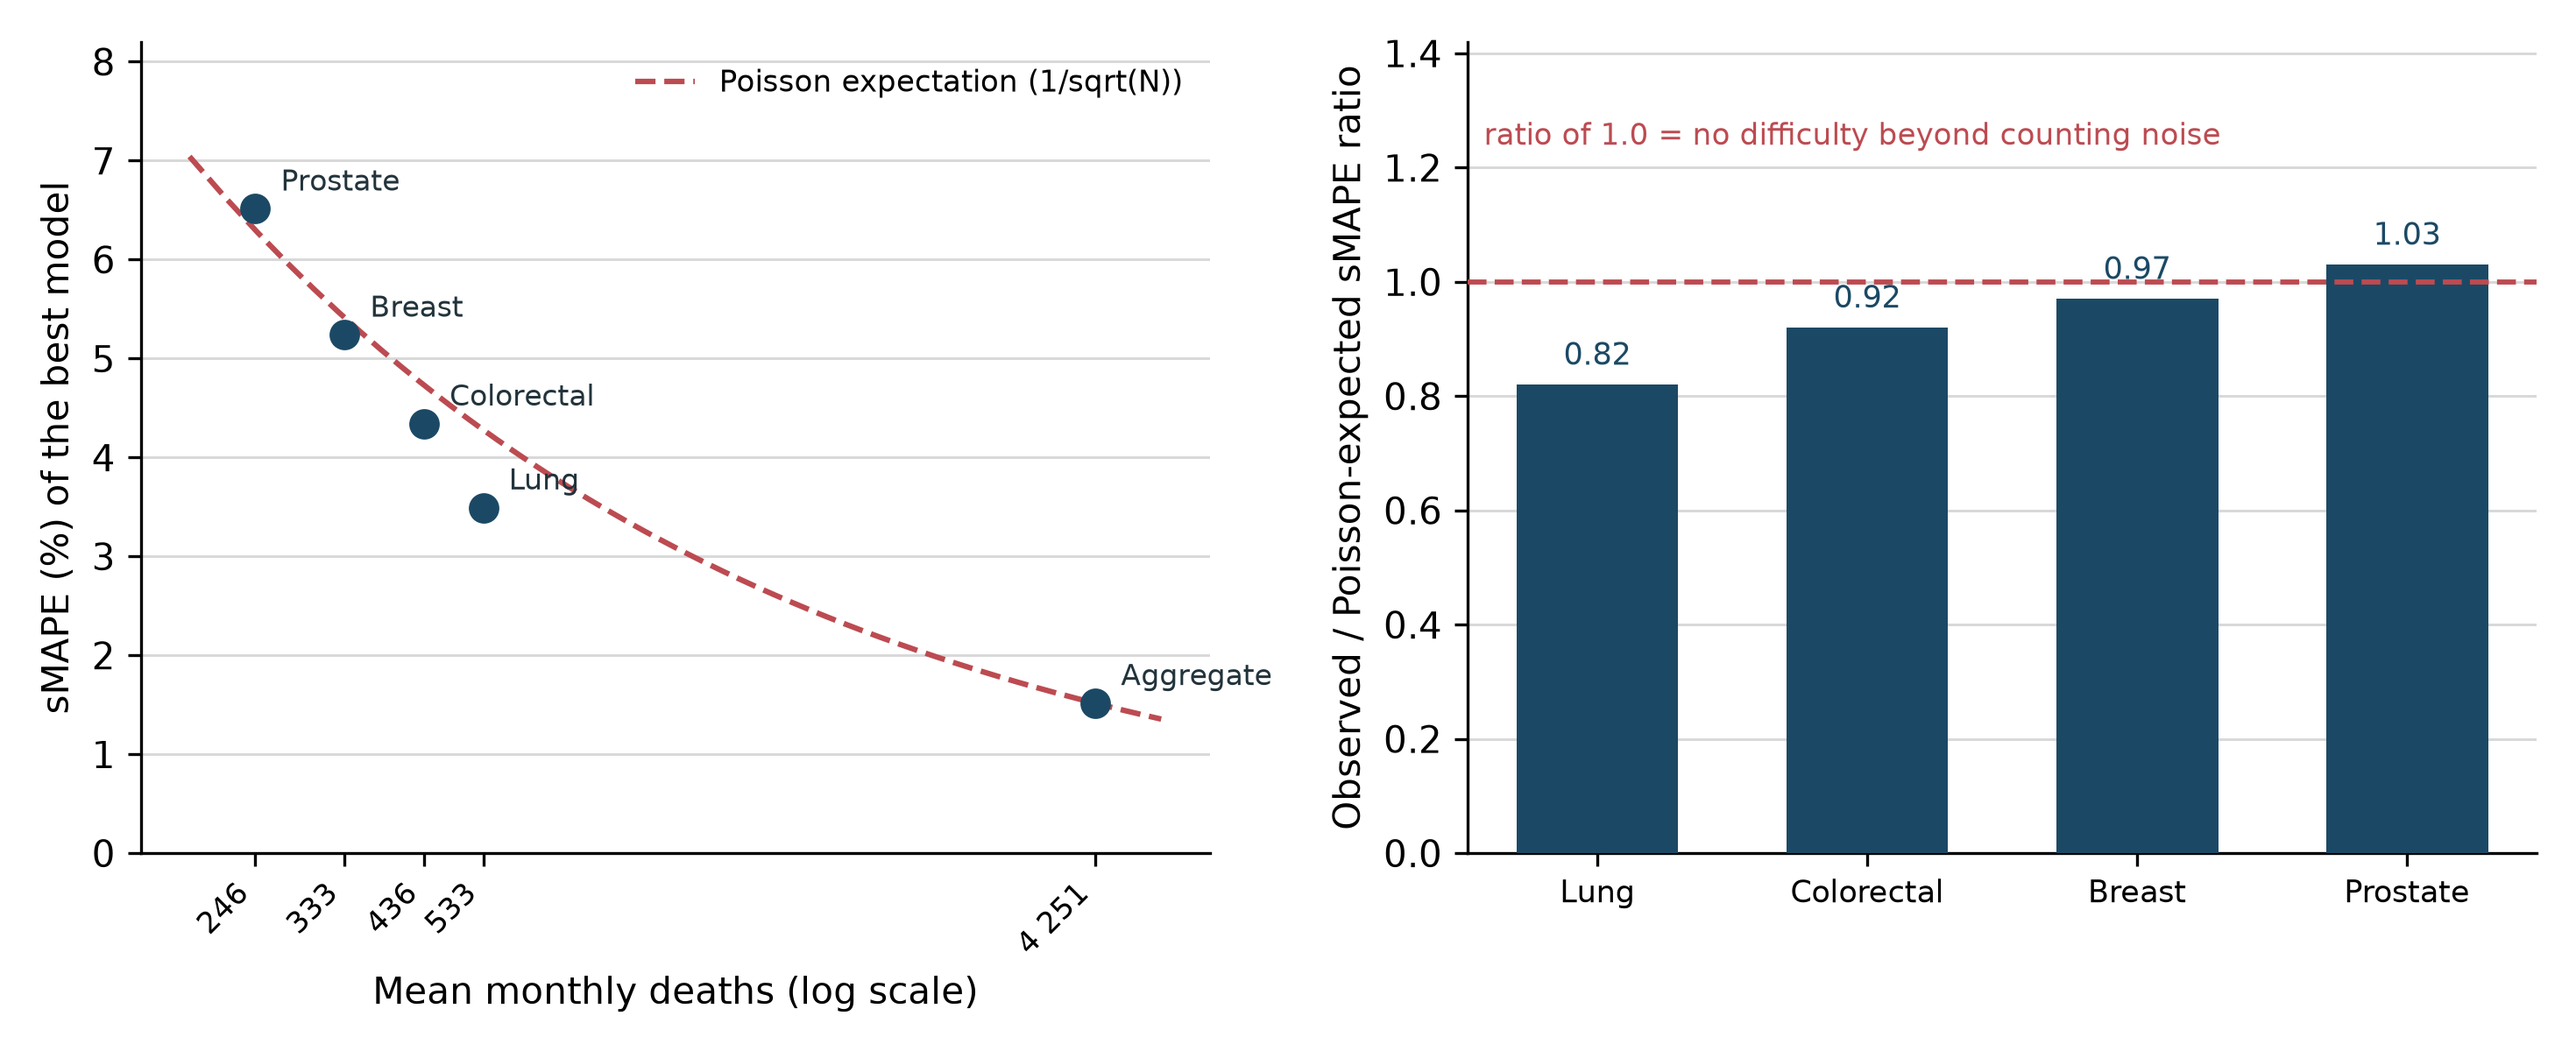
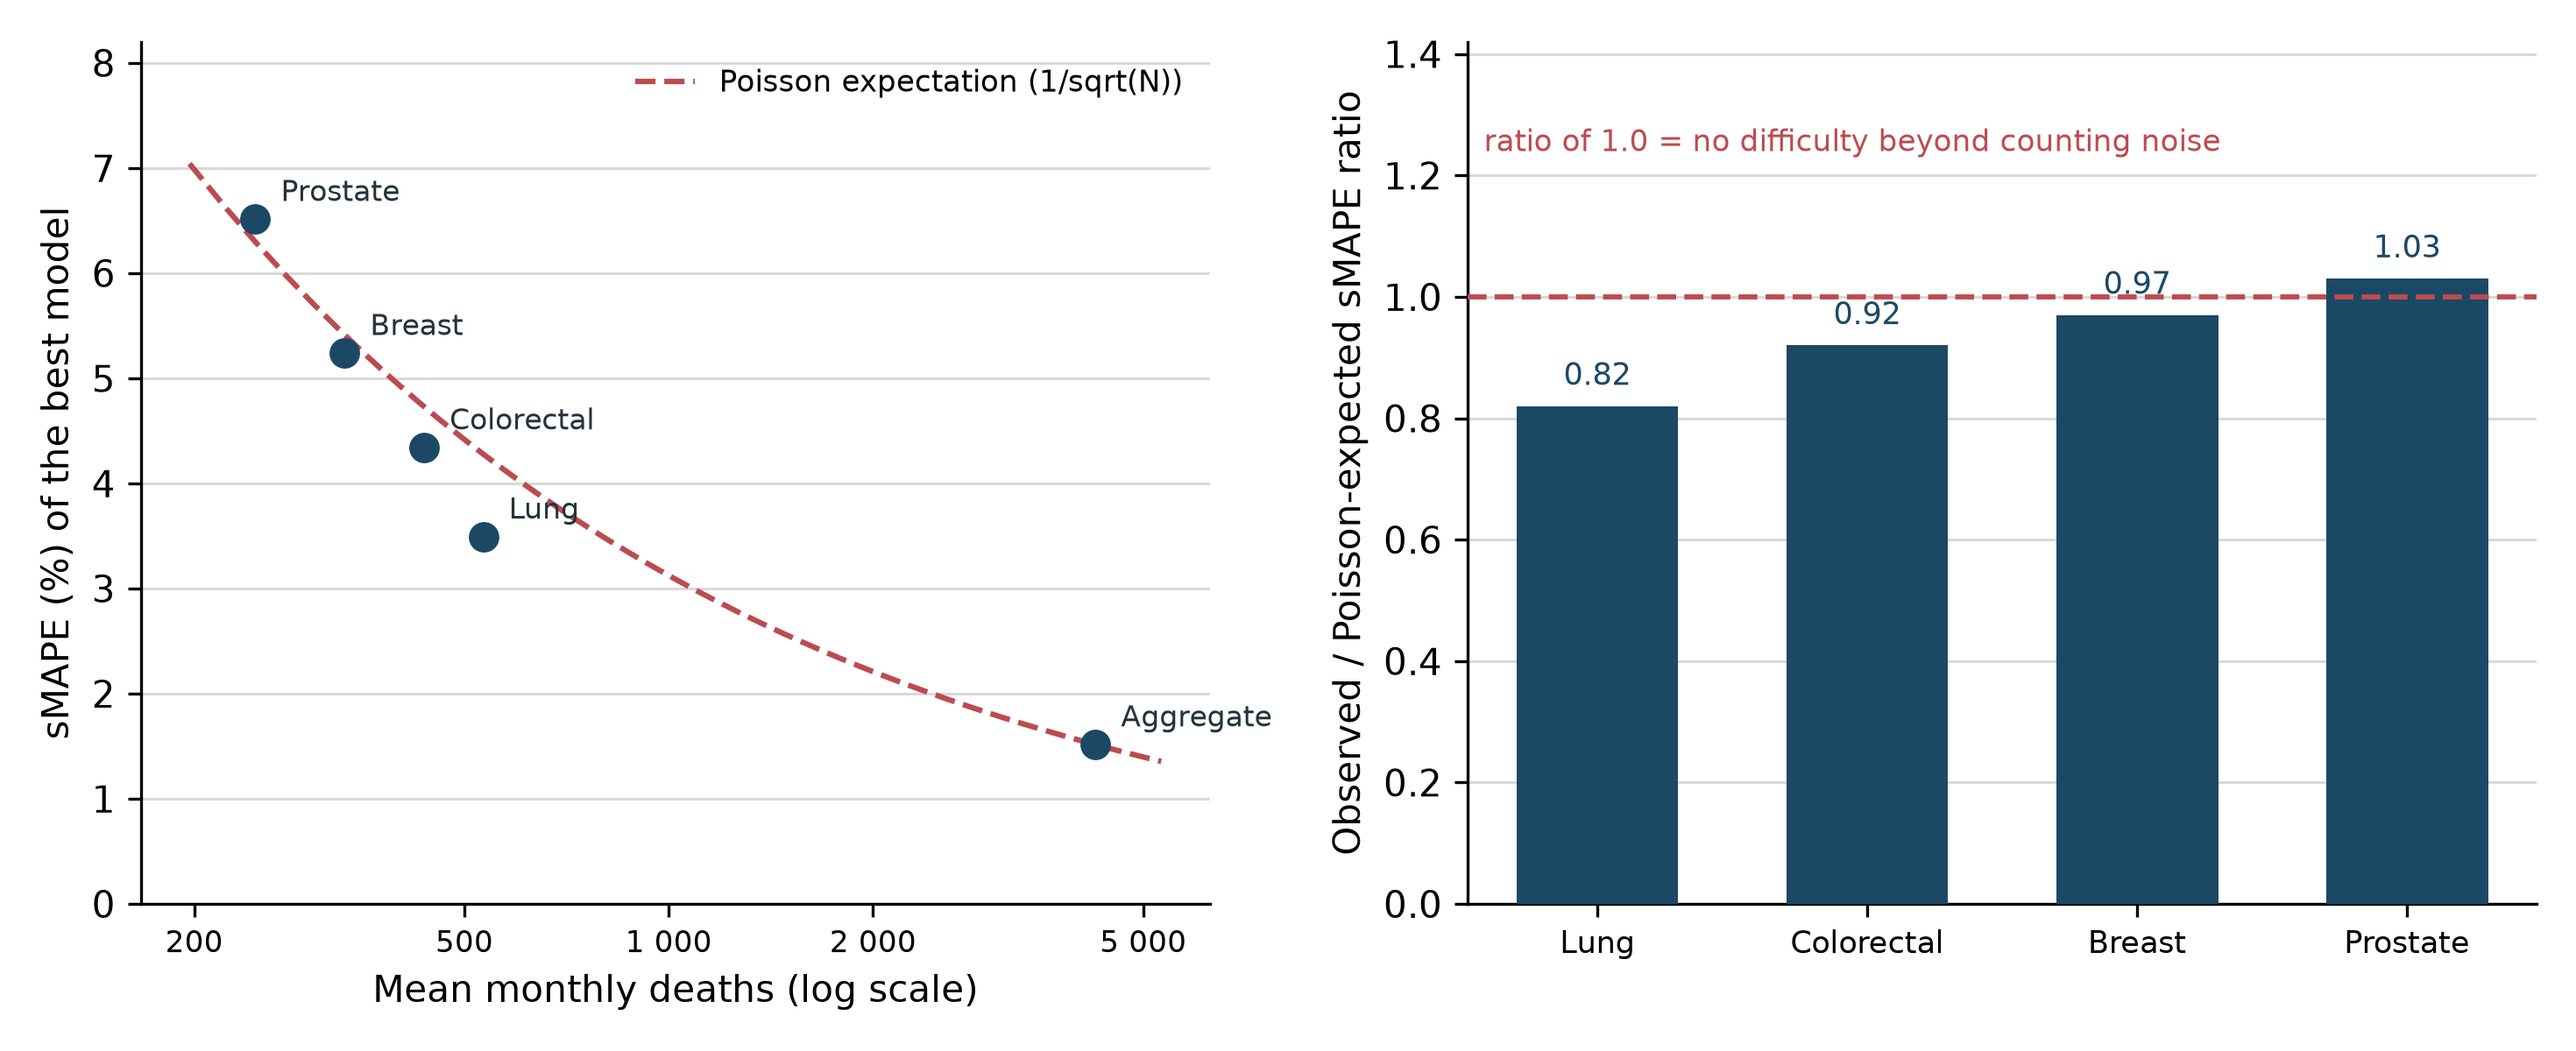
fix: siglas no primeiro uso e escala do eixo log da Figura 3 (revisão da Carine) (#19)

diff --git a/scripts/build_csp_submission.py b/scripts/build_csp_submission.py
@@ -287,7 +287,7 @@ def resumos(v: dict) -> list[tuple[str, str, str, str]]:
         f"raramente testam se o modelo ajustado supera um comparador trivial, e raramente "
         f"informam se a diferença entre modelos resiste a uma medida de incerteza. Extraímos "
         f"do Sistema de Informações sobre Mortalidade todos os óbitos por neoplasia maligna "
-        f"(CID-10 C00-C97) de residentes no Estado de São Paulo entre {co['anos'][0]} e "
+        f"de residentes no Estado de São Paulo entre {co['anos'][0]} e "
         f"{co['anos'][1]}, num total de {n_obitos_lat} óbitos e {n_meses} observações mensais, "
         f"que reproduziram os dados oficiais sem diferença. Pela ruptura estrutural da "
         f"pandemia, o ajuste ficou restrito aos {n_treino} meses de 2010 a 2019. "
@@ -309,7 +309,7 @@ def resumos(v: dict) -> list[tuple[str, str, str, str]]:
         f"rarely test whether a fitted model outperforms a trivial comparator, and rarely report "
         f"whether an observed difference between models survives a measure of uncertainty. We "
         f"extracted from the Mortality Information System all deaths from malignant neoplasms "
-        f"(ICD-10 C00-C97) among residents of São Paulo State between {co['anos'][0]} and "
+        f"among residents of São Paulo State between {co['anos'][0]} and "
         f"{co['anos'][1]}, totalling {n_obitos} deaths and {n_meses} monthly observations, which "
         f"matched the official figures exactly. Because the pandemic is a "
         f"structural break, model fitting was restricted to the {n_treino} months from 2010 to "
@@ -332,7 +332,7 @@ def resumos(v: dict) -> list[tuple[str, str, str, str]]:
         f"pero los estudios de predicción raramente comprueban si el modelo ajustado supera a "
         f"un comparador trivial, y raramente informan si la diferencia entre modelos "
         f"resiste una medida de incertidumbre. Extrajimos del Sistema de Información sobre "
-        f"Mortalidad todas las muertes por neoplasia maligna (CIE-10 C00-C97) de residentes del "
+        f"Mortalidad todas las muertes por neoplasia maligna de residentes del "
         f"Estado de São Paulo entre {co['anos'][0]} y {co['anos'][1]}, un total de "
         f"{n_obitos_lat} muertes y {n_meses} observaciones mensuales, que reprodujeron las "
         f"cifras oficiales exactamente. Por la ruptura estructural de la pandemia, el "
@@ -527,15 +527,16 @@ def build_texto(v: dict) -> tuple[Document, int]:
     p = body(
         doc,
         "The Mortality Information System records every registered death with an underlying "
-        "cause coded in ICD-10. Its completeness exceeded 95% nationally in 2000-2010 and is "
+        "cause coded in the International Classification of Diseases, 10th revision (ICD-10). "
+        "Its completeness exceeded 95% nationally in 2000-2010 and is "
         "highest in the South and Southeast, which include São Paulo State [@lima2014], so an "
         "aggregate monthly series is available there over more than a decade.",
     )
 
     body(
         doc,
-        "Forecasting such series has become methodologically crowded. Seasonal ARIMA remains "
-        "the reference; decomposition approaches such as Prophet are widely deployed [@taylor2018]; "
+        "Forecasting such series has become methodologically crowded. The seasonal "
+        "autoregressive integrated moving average model (SARIMA) remains the reference; decomposition approaches such as Prophet are widely deployed [@taylor2018]; "
         "gradient boosting over lagged features is a common default; and time-series foundation "
         "models now offer zero-shot forecasts without any fitting on the target series [@das2023]. "
         "Large-scale forecasting competitions have repeatedly found that method complexity and "
@@ -548,7 +549,7 @@ def build_texto(v: dict) -> tuple[Document, int]:
         "whether the fitted model contributes anything beyond repeating last year. Second, "
         "differences are reported as point estimates, without uncertainty and without a rule, "
         "fixed in advance, for what magnitude counts as real. A difference of a few tenths of a "
-        "percentage point in symmetric mean absolute percentage error can easily be presented as "
+        "percentage point in symmetric mean absolute percentage error (sMAPE) can easily be presented as "
         "a win when it is merely noise [@hyndman2006].",
     )
     body(
@@ -564,7 +565,9 @@ def build_texto(v: dict) -> tuple[Document, int]:
     h(doc, "Methods")
     body(
         doc,
-        "Reporting follows TRIPOD+AI [@collins2024] where applicable. TRIPOD+AI was designed for "
+        "Reporting follows the TRIPOD+AI statement (transparent reporting of multivariable "
+        "prediction models for individual prognosis or diagnosis, updated for artificial "
+        "intelligence) [@collins2024] where applicable. TRIPOD+AI was designed for "
         "individual-level clinical prediction models, whereas the outcome here is an aggregate "
         "monthly count, so items concerning participants, individually measured predictors, "
         "events per variable and calibration of individual risks do not apply and are not "
@@ -572,7 +575,9 @@ def build_texto(v: dict) -> tuple[Document, int]:
     )
     body(
         doc,
-        f"We used the Mortality Information System (SIM/DataSUS), by state of residence, "
+        f"We used the Mortality Information System, distributed by the Department of "
+        f"Informatics of the Brazilian Unified National Health System (DataSUS), by state of "
+        f"residence, "
         f"restricted to São Paulo State for {co['anos'][0]} to {co['anos'][1]}. Annual files "
         f"were downloaded from the DataSUS "
         f"public server and decoded locally. The outcome was the monthly count of deaths whose "
@@ -588,7 +593,7 @@ def build_texto(v: dict) -> tuple[Document, int]:
         f"{co['anos'][1]}). An automated plausibility check passed "
         f"{co['checagens_validacao_aprovadas']} of {co['checagens_validacao_total']} assertions. "
         f"We cross-checked the annual counts against the figures published by the Ministry of "
-        f"Health through TabNet for the same selection (São Paulo, ICD-10 groups covering "
+        f"Health through TabNet, the DataSUS online tabulation tool, for the same selection (São Paulo, ICD-10 groups covering "
         f"C00-C97): our series reproduced the official deaths-by-residence figures exactly in "
         f"all {cross['anos_conferidos']} years, with a difference of zero and a total of "
         f"{n(cross['total_tabnet_residencia'])} in both. The deaths-by-occurrence view of the "
@@ -648,7 +653,7 @@ def build_texto(v: dict) -> tuple[Document, int]:
         f"within each replicate. We additionally applied the Diebold-Mariano test [@diebold1995] at each horizon with "
         f"the Harvey small-sample correction [@harvey1997]. We declared, before running the benchmark and "
         f"before any result was inspected, that an improvement counts as confirmed only if the "
-        f"95% confidence interval of the sMAPE difference excludes zero AND the "
+        f"95% confidence interval (95%CI) of the sMAPE difference excludes zero AND the "
         f"Diebold-Mariano p value falls below {crit['alpha']} in at least "
         f"{crit['min_horizontes']} of the {ba['horizonte']} horizons. The two conditions test "
         f"different things: the bootstrap asks whether the average difference is "
@@ -960,7 +965,8 @@ def build_tabelas(v: dict) -> Document:
                  "DM below alpha"], rows)
     p = doc.add_paragraph()
     p.add_run(
-        f"DM: Diebold-Mariano test with the Harvey small-sample correction, applied separately "
+        f"sMAPE: symmetric mean absolute percentage error; 95%CI: 95% confidence interval from "
+        f"the block bootstrap; DM: Diebold-Mariano test with the Harvey small-sample correction, applied separately "
         f"at each of the {ba['horizonte']} forecast horizons; alpha = {crit['alpha']}. A "
         f"difference was pre-declared as confirmed only if the 95%CI excluded zero and DM fell "
         f"below alpha in at least {crit['min_horizontes']} of {ba['horizonte']} horizons. The "
@@ -997,7 +1003,7 @@ def build_legendas(v: dict) -> Document:
          f"in fact lie above that maximum. A recursive tree ensemble predicts an average of "
          f"leaves fitted in training and is therefore bounded by the observed range."),
         ("Figure 3",
-         "Left: sMAPE of the best model against mean monthly deaths for the aggregate series and "
+         "Left: symmetric mean absolute percentage error (sMAPE) of the best model against mean monthly deaths for the aggregate series and "
          "the four highest-volume tumour sites, with the curve expected if error were driven by "
          "counting noise alone. Right: observed sMAPE ratio divided by the Poisson-expected "
          "ratio, by site. Values near 1 indicate no difficulty beyond that implied by count size."),
@@ -1026,7 +1032,7 @@ def build_suplementar(v: dict) -> Document:
     r.font.size = Pt(10)
     par = doc.add_paragraph()
     par.add_run(
-        f"Empirical coverage, mean interval width and weighted interval score of conformal "
+        f"Empirical coverage, mean interval width and weighted interval score (WIS) of conformal "
         f"prediction intervals, by model, over {itv['n_avaliado_por_modelo']} forecasts per "
         f"model within the stable regime (2010-2019)."
     ).font.size = Pt(9)

diff --git a/scripts/build_paper_assets.py b/scripts/build_paper_assets.py
@@ -307,11 +307,14 @@ def fig4_sitios(v: dict) -> str:
         ax1.annotate(r.split(" (")[0], (mm, ss), textcoords="offset points",
                      xytext=(7, 5), fontsize=8.0, color=C_OBS)
     ax1.set_xscale("log")
-    # Ticks explicitos: no log a formatacao automatica emite rotulos de minor tick
-    # que se sobrepoem e deixam o eixo ilegivel.
-    ax1.set_xticks(media)
-    ax1.set_xticklabels([f"{int(x):,}".replace(",", " ") for x in media],
-                        fontsize=8.2, rotation=45, ha="right")
+    # Escala de verdade no eixo log (revisao da Carine Savalli, 2026-10-09): marcas
+    # regulares em vez dos valores de cada ponto, que pareciam um eixo sem escala.
+    # A formatacao automatica do log sobrepoe rotulos de minor tick; por isso as
+    # marcas sao fixas e os minor ticks ficam desligados.
+    marcas = [m for m in (100, 200, 500, 1000, 2000, 5000, 10000)
+              if xs.min() <= m <= xs.max()]
+    ax1.set_xticks(marcas)
+    ax1.set_xticklabels([f"{m:,}".replace(",", " ") for m in marcas], fontsize=8.2)
     ax1.minorticks_off()
     ax1.set_xlabel("Mean monthly deaths (log scale)")
     ax1.set_ylabel("sMAPE (%) of the best model")

diff --git a/PROGRESS.md b/PROGRESS.md
@@ -104,6 +104,22 @@ Linear: LAB-135 e LAB-120 fechadas como Done; LAB-169 com comentários do andame
   .docx). Mensagem enviada pelo WhatsApp (Fermes) em 05/10, 07:27. Ela também usa
   [e-mail pessoal da Carine], que ainda não tem acesso. Aguardando resposta.
 
+### Concluído em 2026-10-09
+
+- [x] **Revisão da Carine Savalli** (WhatsApp, 09/10). Ela trabalha com modelos lineares
+  generalizados mistos, não com séries temporais, e achou tudo "corretamente aplicado".
+  Aplicado no gerador:
+  - siglas definidas no primeiro uso (ICD-10, SARIMA, sMAPE, TRIPOD+AI, DataSUS, 95%CI,
+    TabNet) no corpo, nas notas das tabelas, na legenda da Figura 3 e no suplementar (WIS);
+    os três resumos ficaram sem sigla (o código CID saiu, continua nos Métodos);
+  - Figura 3, painel esquerdo (a "Figura 4" dela, numeração antiga): eixo log com marcas
+    regulares (200, 500, 1 000, 2 000, 5 000) em vez do valor de cada ponto. Só essa figura
+    foi regerada, chamando `fig4_sitios` direto, para não regravar o `_commit` do
+    `verified_numbers.json` antes da submissão.
+  Em aberto, decisão do Fabiano: ela acha que a Comunicação Breve foge do contexto do artigo
+  (comparar métodos); não entendeu o "choque" (a análise exploratória da LAB-204, fora do
+  manuscrito); ofereceu um meet; costuma passar séries temporais a uma colega especialista.
+
 ### EM PROGRESSO
 
 Nada pela metade. Git limpo e sincronizado com origin.
